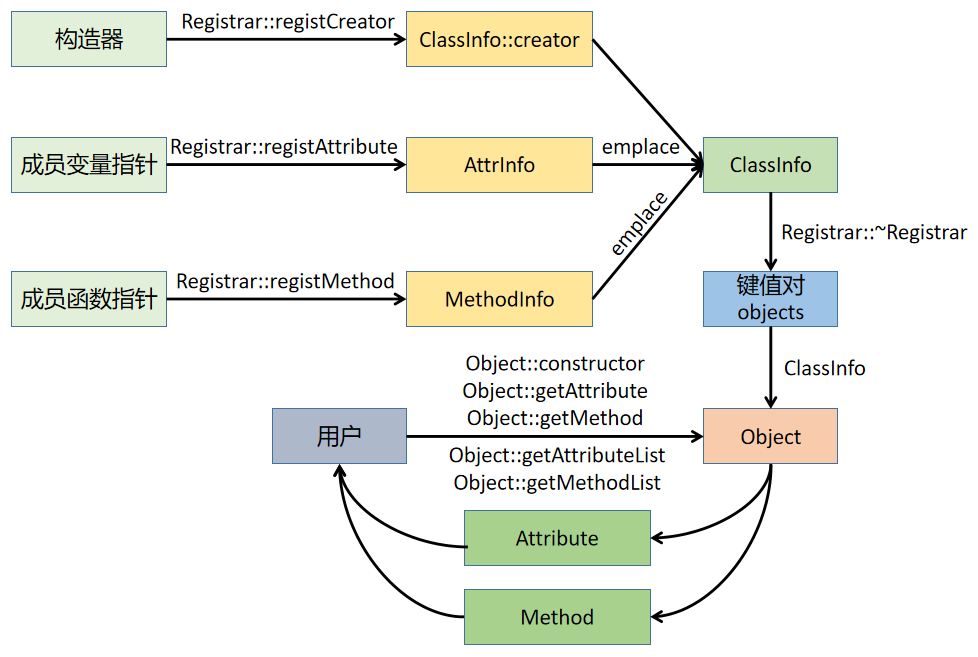
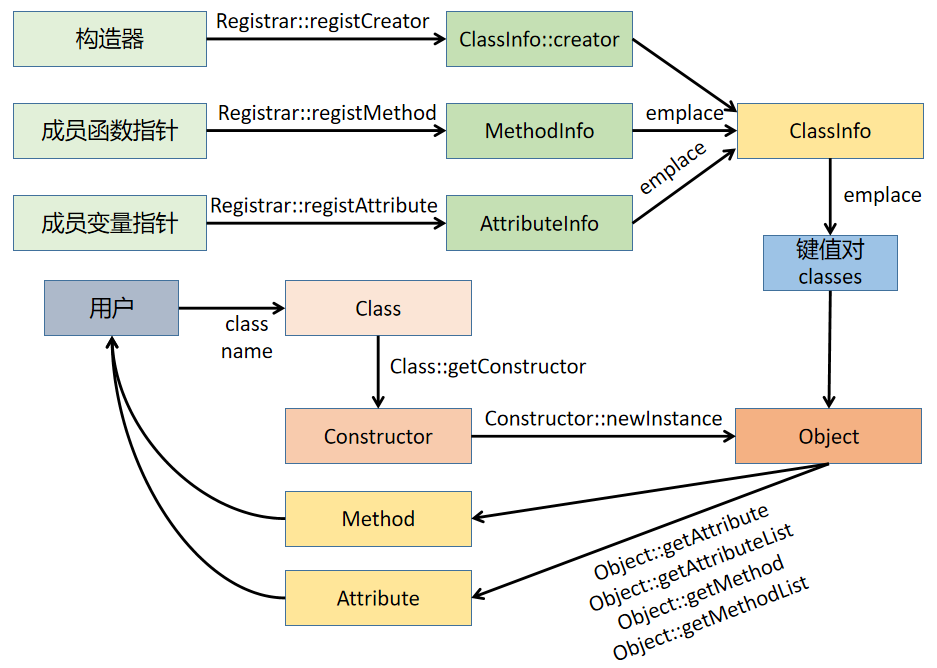
20220130:Add Class and Constructor,more like Java reflection,delete some files.

diff --git a/src/reflection.hpp b/src/reflection.hpp
@@ -5,13 +5,14 @@
 #include <vector>
 
 namespace jrReflection {
+    class Constructor;
+    class Attribute;
+    class Method;
+
+    /* ========================= Registrar ========================= */
     class Registrar {
     private:
         ClassInfo ci;
-
-    private:
-        static std::map<std::string, ClassInfo>& getObjects();
-        static std::map<std::string, MethodInfo>& getMethods();
 
     public:
         Registrar(const std::string name = "") { ci.class_name = name; }
@@ -30,25 +31,34 @@ namespace jrReflection {
         void registMethod(const std::string& method_name, R(*method)(Args...));
     };
 
-    class Attribute;
-    class Method;
+    /* ========================= Class ========================= */
+    class Class {
+    private:
+        std::string class_name;
+        Class(const std::string& name) : class_name(name) {}
+        Class(std::string&& name) : class_name(name) {}
 
+    public:
+        // Create a Class by string
+        static Class& forName(const std::string& name);
+        static Class& forName(std::string&& name);
+        // Get class's constructor
+        Constructor getConstructor() const;
+    };
+
+    /* ========================= Object ========================= */
     class Object {
         friend class Attribute;
         friend class Method;
+        friend class Constructor;
 
     private:
-        ClassInfo& ci;
+        ClassInfo ci;
         std::shared_ptr<Reflectable> instance;  // pointer to instance
 
-    private:
-        static std::map<std::string, ClassInfo>& getObjects();
+        Object(const std::string& name, std::shared_ptr<Reflectable> instance); // Used by Constructor::newInstance
 
     public:
-        Object(const std::string& name) : ci(Object::getObjects()[name]), instance(nullptr) {}
-        // Create a object
-        template<typename... Args>
-        void construct(Args&&... args);
         // Get a target instance's data member
         Attribute getAttribute(const std::string& attr_name) const;
         // Get a target instance's data member list
@@ -59,13 +69,30 @@ namespace jrReflection {
         std::vector<Method> getMethodList() const;
     };
 
+    /* ========================= Constructor ========================= */
+    class Constructor {
+        friend class Class;
+
+    private:
+        std::string class_name;
+        std::any ctor;
+
+        Constructor(const std::string& name, std::any ctor) : class_name(name), ctor(ctor) {}   // Used by Class::getConstructor
+
+    public:
+        // Create an object
+        template<typename... Args>
+        Object newInstance(Args&&... args);
+    };
+
+    /* ========================= Attribute ========================= */
     class Attribute {
     private:
         AttrInfo info;
         std::shared_ptr<Reflectable> instance;  // pointer to instance
 
     public:
-        Attribute(const Object& obj, const std::string& name) : info((obj.ci.attributes)[name]), instance(obj.instance) {}
+        Attribute(const Object& obj, const std::string& name) : info((obj.ci.attributes).at(name)), instance(obj.instance) {}
         // Get current attribute name
         std::string getName() const { return info.attr_name; }
         // Set a target instance's data member
@@ -74,27 +101,36 @@ namespace jrReflection {
         Variable getValue() const;
     };
 
+    /* ========================= Method ========================= */
     class Method {
     private:
         MethodInfo info;
         std::shared_ptr<Reflectable> instance;  // pointer to instance
 
-    private:
-        static std::map<std::string, MethodInfo>& getMethods();
-
     public:
         // Nonmember method init
-        Method(const std::string& name) : info(Method::getMethods()[name]), instance(nullptr) {}
+        Method(const std::string& name);
         // Member method init
-        Method(const Object& obj, const std::string& name) : info((obj.ci.methods)[name]), instance(obj.instance) {}
+        Method(const Object& obj, const std::string& name) : info((obj.ci.methods).at(name)), instance(obj.instance) {}
         // Get current method name
         std::string getName() const { return info.method_name; }
         // Invoke function
         template<typename... Args>
-        auto invokeMethod(Args&&... args);
+        auto invoke(Args&&... args);
     };
 
-    /* Implementation */
+    /* ========================= Get std::map from .cpp, user cannot see it ========================= */
+    class Utils {
+        friend class Registrar;
+        friend class Class;
+        friend class Constructor;
+        friend class Object;
+        friend class Method;
+        static std::map<std::string, ClassInfo>& getClasses();
+        static std::map<std::string, MethodInfo>& getMethods();
+    };
+
+    /* Template Implementation */
     template<typename T, typename... Args>
     void Registrar::registCreator() {
         ci.set_ctor<T, Args...>();
@@ -112,21 +148,20 @@ namespace jrReflection {
 
     template<typename R, typename... Args>
     void Registrar::registMethod(const std::string& method_name, R(*method)(Args...)) {
-        Registrar::getMethods().emplace(method_name, MethodInfo(method_name, method));
+        Utils::getMethods().emplace(method_name, MethodInfo(method_name, method));
     }
 
     template<typename... Args>
-    void Object::construct(Args&&... args) {
+    Object Constructor::newInstance(Args&&... args) {
         try {
-            auto ctor = std::any_cast<std::function<std::shared_ptr<Reflectable>(Args...)>>(ci.creator);
-            instance = ctor(std::forward<Args>(args)...);
+            return Object(class_name, std::any_cast<std::function<std::shared_ptr<Reflectable>(Args...)>>(ctor)(std::forward<Args>(args)...));
         } catch (const std::bad_any_cast&) {
             throw std::runtime_error("Constructor is empty!");
         }
     }
 
     template<typename... Args>
-    auto Method::invokeMethod(Args&&... args) {
+    auto Method::invoke(Args&&... args) {
         if(instance) {
             // Invoke a member function
             auto memfun = std::any_cast<std::function<Variable(std::shared_ptr<Reflectable>, Args...)>>(info.method);

diff --git a/test/main.cpp b/test/main.cpp
@@ -1,17 +1,19 @@
 #include "test.h"
 
+using namespace jrReflection;
+
 int main(void) {
     /* Non-member function test */
     std::string method_name = "test_fun";
     // Register nonmember method info
     {
-        jrReflection::Registrar reg;
+        Registrar reg;
         reg.registMethod(method_name, test_fun);
     }
     // Invoke nonmember method
-    jrReflection::Method method(method_name);
-    std::string ret = method.invokeMethod(98);
-    std::cout << method.getName() << "'s ret is" << ret << std::endl;
+    Method method(method_name);
+    std::string ret = method.invoke(98);
+    std::cout << method.getName() << "'s ret is " << ret << std::endl;
     /* Class test */
     std::string class_name = "Test";
     std::vector<std::string> attr_names {"attr", "attr2", "attr3"};
@@ -19,7 +21,7 @@ int main(void) {
     // Register class info
     // WARNING: jrReflection::Registrar MUST be deconstructed BEFORE jrReflection::Object construct!!!!
     {
-        jrReflection::Registrar reg(class_name);
+        Registrar reg(class_name);
         reg.registCreator<Test, int, double>();
         reg.registAttribute(attr_names[0], &Test::attr);
         reg.registAttribute(attr_names[1], &Test::attr2);
@@ -28,8 +30,9 @@ int main(void) {
         reg.registMethod(method_names[1], &Test::fun2);
     }
     // Create a instance by name
-    jrReflection::Object object(class_name);
-    object.construct(6, 5.564);
+    Class clazz = Class::forName(class_name);
+    Constructor ctor = clazz.getConstructor();
+    Object object = ctor.newInstance(6, 5.564);
     // Print all attrs' name
     {
         std::cout << class_name << "'s attributes are ";
@@ -48,32 +51,32 @@ int main(void) {
     }
     // Set and get a attribute's value
     {
-        jrReflection::Attribute attr = object.getAttribute(attr_names[0]);
+        Attribute attr = object.getAttribute(attr_names[0]);
         attr.setValue(65536);
         int attr_var = attr.getValue();
         std::cout << attr_names[0] << " is " << attr_var << std::endl;
     }
     {
-        jrReflection::Attribute attr2 = object.getAttribute(attr_names[1]);
+        Attribute attr2 = object.getAttribute(attr_names[1]);
         attr2.setValue(std::string("I'm attr2."));
         std::string attr_var = attr2.getValue();
         std::cout << attr_names[1] << " is " << attr_var << std::endl;
     }
     {
-        jrReflection::Attribute attr3 = object.getAttribute(attr_names[2]);
+        Attribute attr3 = object.getAttribute(attr_names[2]);
         attr3.setValue(std::string("I'm attr3."));
         std::string attr_var = attr3.getValue();
         std::cout << attr_names[2] << " is " << attr_var << std::endl;
     }
     // Invoke a member function
     {
-        jrReflection::Method memfun = object.getMethod(method_names[0]);
-        int mem_ret = memfun.invokeMethod('b');
+        Method memfun = object.getMethod(method_names[0]);
+        int mem_ret = memfun.invoke('b');
         std::cout << memfun.getName() << "'s ret is " << mem_ret << std::endl;
     }
     {
-        jrReflection::Method memfun = object.getMethod(method_names[1]);
-        std::string mem_ret = memfun.invokeMethod(56324);
+        Method memfun = object.getMethod(method_names[1]);
+        std::string mem_ret = memfun.invoke(56324);
         std::cout << memfun.getName() << "'s ret is " << mem_ret << std::endl;
     }
     return 0;

diff --git a/src/reflection.cpp b/src/reflection.cpp
@@ -1,30 +1,37 @@
 #include "reflection.hpp"
 
 namespace jrReflection {
-    static std::map<std::string, ClassInfo> objects;
+    static std::map<std::string, ClassInfo> classes;
     static std::map<std::string, MethodInfo> methods;
 
+    /* Get std::map in header */
+    std::map<std::string, ClassInfo>& Utils::getClasses() { return classes; }
+    std::map<std::string, MethodInfo>& Utils::getMethods() { return methods; }
+
+    /* If reflect a class, the destructor will regist the Classinfo into std::map */
     Registrar::~Registrar() {
         if(!ci.class_name.empty()) {
-            Registrar::getObjects().emplace(ci.class_name, ci);
+            Utils::getClasses().emplace(ci.class_name, ci);
         }
     }
 
-    std::map<std::string, ClassInfo>& Registrar::getObjects() {
-        return objects;
+    /* Class*/
+    Class& Class::forName(const std::string& name) {
+        static Class ret(name);
+        return ret;
     }
 
-    std::map<std::string, MethodInfo>& Registrar::getMethods() {
-        return methods;
+    Class& Class::forName(std::string&& name) {
+        static Class ret(std::move(name));
+        return ret;
     }
 
-    std::map<std::string, ClassInfo>& Object::getObjects() {
-        return objects;
-    }
+    Constructor Class::getConstructor() const { return Constructor(class_name, Utils::getClasses().at(class_name).creator); }
 
-    Attribute Object::getAttribute(const std::string& attr_name) const {
-        return Attribute(*this, attr_name);
-    }
+    /* Object */
+    Object::Object(const std::string& name, std::shared_ptr<Reflectable> instance) : ci(Utils::getClasses()[name]), instance(instance) {}
+
+    Attribute Object::getAttribute(const std::string& attr_name) const { return Attribute(*this, attr_name); }
 
     std::vector<Attribute> Object::getAttributeList() const {
         std::vector<Attribute> attrs;
@@ -34,9 +41,7 @@ namespace jrReflection {
         return attrs;
     }
 
-    Method Object::getMethod(const std::string& method_name) const {
-        return Method(*this, method_name);
-    }
+    Method Object::getMethod(const std::string& method_name) const { return Method(*this, method_name); }
 
     std::vector<Method> Object::getMethodList() const {
         std::vector<Method> methods;
@@ -46,6 +51,7 @@ namespace jrReflection {
         return methods;
     }
 
+    /* Attribute */
     void Attribute::setValue(Variable var) {
         auto set_attr = std::any_cast<std::function<void(std::shared_ptr<Reflectable>, Variable)>>(info.set_attr);
         set_attr(instance, var);
@@ -56,7 +62,6 @@ namespace jrReflection {
         return get_attr(instance);
     }
 
-    std::map<std::string, MethodInfo>& Method::getMethods() {
-        return methods;
-    }
+    /* Method */
+    Method::Method(const std::string& name) : info(Utils::getMethods()[name]), instance(nullptr) {}
 }

diff --git a/README.md b/README.md
@@ -160,14 +160,14 @@ ctor_wrapper = [](Args&&... ctorArgs) {
     if(!b) {
         throw std::runtime_error("Reflectable is not base of ChildClass");
     }
-    // 返回向上转型后的对象指针
+    // 取用向下转型后的对象所持有的成员
     return b;
 };
 ```
 ### 2.3.4 string-ClassInfo键值对
 该键值对定义在reflection.cpp内，对用户透明；用于通过类名称迅速查找对应的ClassInfo对象。  
 ```c++
-static std::map<std::string, ClassInfo> objects;
+static std::map<std::string, ClassInfo> classes;
 ```
 ## 3 反射工作过程
 ### 3.1 非成员函数反射
